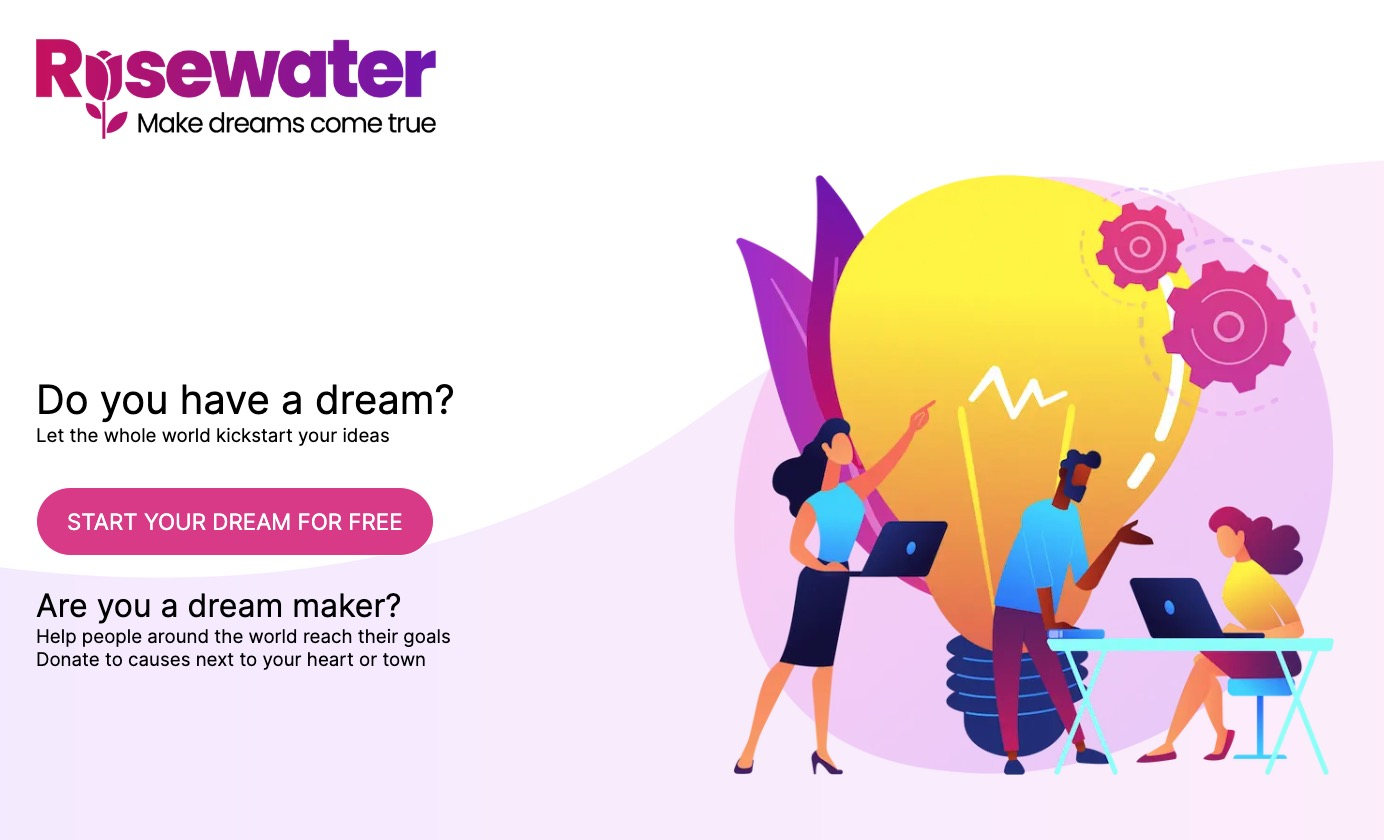
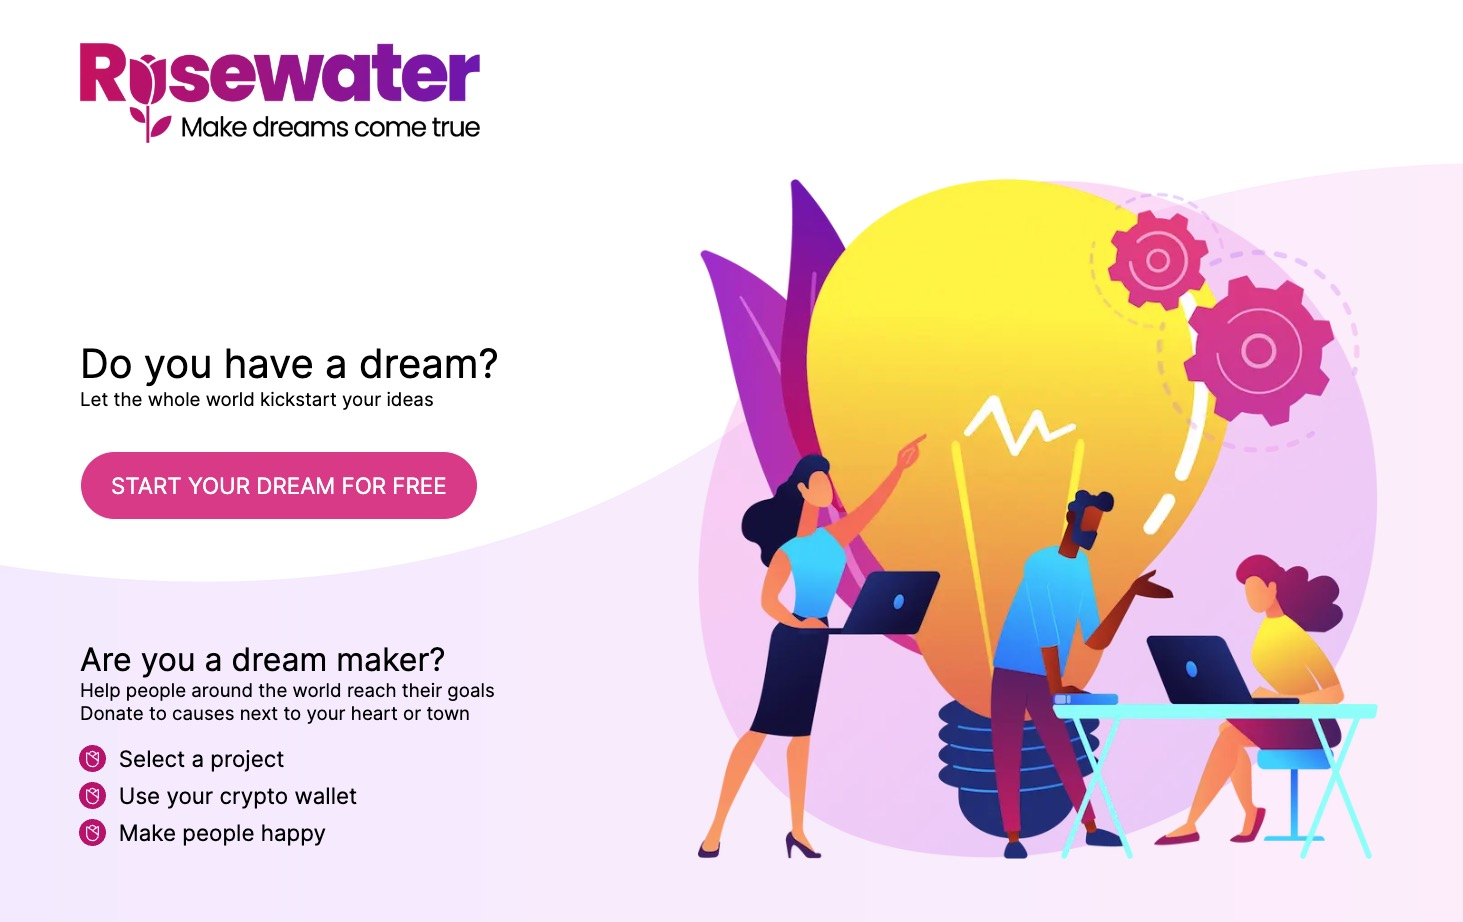
main page

Changed region(s): [[0.466, 0.1857, 0.9632, 0.9286], [0.0311, 0.3714, 0.3418, 0.9286], [0.0, 0.031, 0.3418, 0.1548]]

diff --git a/app/page.module.css b/app/page.module.css
@@ -1,4 +1,4 @@
-/* PALETTE 2B3582 861BB0 BE1677 DC4492 */
+/* PALETTE blue:2B3582 violet:861BB0 pink:BE1677 pink:DC4492 */
 
 .wrap {
   width: 1330px;
@@ -36,7 +36,7 @@
 .hero { display: flex; flex-direction: row; justify-content: space-between; width: 100%; height: 800px; background: url(/media/backg.png) top center no-repeat; }
 .heroLeft  { }
 .heroRight { }
-.hero h1 { padding-top: 200px; font-size: 2.5em; }
+.hero h1 { padding-top: 160px; font-size: 2.5em; }
 .hero h2 { padding-top: 20px; font-size: 2em; }
 .pics { display: flex; flex-direction: row; justify-content: space-between; width: 630px; }
 .pics img { border-radius: 20px; width: 200px; }
@@ -59,7 +59,7 @@
 
 .start {
   display: inline-block;
-  margin: 40px 0 10px;
+  margin: 40px 0 100px;
   padding: 20px 30px;
   background-color: #DC4492;
   color: #FFF !important;
@@ -126,3 +126,33 @@
 .donors td:nth-child(3) {
   text-align: right;
 }
+
+.bullet {
+  margin: 20px 0 0 -6px;
+  list-style-type: none;
+  font-size: 1.4em;
+}
+
+.bullet li {
+  margin-top: 10px;
+  padding-left: 2em;
+  background: url(/media/bullet.svg) no-repeat top left 5px;
+}
+
+/*
+.bullet {
+  margin-top: 50px;
+  list-style-image: url(/media/bullet.svg);
+  font-size: 1.2em;
+  line-height: 1.8em;
+  vertical-align: middle;
+}
+
+.bullet li {
+  line-height: 1.8em;
+}
+
+.bullet li::marker {
+  font-size: 4em;
+}
+*/

diff --git a/components/donations.tsx b/components/donations.tsx
@@ -19,12 +19,12 @@ export default function Donations(props:Dictionary) {
         {list.map((item:Dictionary)=>{
           total += Number(item.usdval)
           return (
-            <tr key={item.id}><td>{item.created.substr(0,10)}</td><td>{item.donor.substr(0,12)+'...'}</td><td>{item.usdval}</td></tr>
+            <tr key={item.id}><td>{item.created.substr(0,10)}</td><td>{item.donor.substr(0,12)+'...'}</td><td>{money(item.usdval,2)}</td></tr>
           )
         })}
         </tbody>
         <tfoot>
-          <tr><th>{list.length} Donation{list.length==1?'':'s'}</th><th>&nbsp;</th><th>{total}</th></tr>
+          <tr><th>{list.length} Donation{list.length==1?'':'s'}</th><th>&nbsp;</th><th>{money(total,2)}</th></tr>
         </tfoot>
       </table>
     </>

diff --git a/components/button-fund.tsx b/components/button-fund.tsx
@@ -1,5 +1,5 @@
 'use client'
- 
+import { useRouter } from 'next/navigation' 
 import { ethers } from 'ethers'
 import { useState } from 'react'
 import * as api from '@/utils/api'
@@ -9,6 +9,7 @@ import styles from '@/app/page.module.css'
 declare let window: any;
 
 export default function ButtonFund(props:any) {
+  const router = useRouter()
   const cause = props?.cause || ''
   const [message, setMessage] = useState('FUND A DREAM')
   
@@ -69,6 +70,7 @@ export default function ButtonFund(props:any) {
       // Add funds to dream
       const funded = await db.addFunds(dream.id, usd)
       console.log('Funded', funded)
+      router.refresh()
     } catch(ex) {
       console.error(ex)
       setMessage('ERROR FUNDING')

diff --git a/app/page.tsx b/app/page.tsx
@@ -31,9 +31,14 @@ export default async function Home() {
             <h2>Are you a dream maker?</h2>
             <h3>Help people around the world reach their goals</h3>
             <h3>Donate to causes next to your heart or town</h3>
+            <ul className={styles.bullet}>
+              <li>Select a project</li>
+              <li>Use your crypto wallet</li>
+              <li>Make people happy</li>
+            </ul>
           </div>
           <div className={styles.heroRight}>
-            <Image src="/media/hero.png" alt="hero" width={600} height={600} />
+            <Image src="/media/hero.png" alt="hero" width={680} height={680} />
           </div>
         </div>
       </div>

diff --git a/app/globals.css b/app/globals.css
@@ -136,6 +136,7 @@ a { color: #333; text-decoration: none; }
 a:visited { color: #333; }
 a:hover {  }
 button { padding: 10px; background-color: transparent; color: #24c; border: 1px solid #24c; border-radius: 5px; cursor: pointer; }
+button:nth-child(2) { margin: 0 2px; }
 form { display: block; width: 720px; margin: 1rem auto; padding: 2rem; border: 1px solid #ccc; border-radius: 20px;  }
 form label { display: block; margin-top: 1rem; color: #888; font-size: normal; }
 form label.info { display: block; margin-top: 0; color: #888; font-size: small; }

diff --git a/components/footer.tsx b/components/footer.tsx
@@ -13,7 +13,7 @@ export default function Footer() {
       </div>
       <div className={styles.footInfo}>
         <p>Rosewater is developed on XRPL-EVM Sidechain</p>
-        <p>You will need Metamask or any EVM compatible wallet and have some funds in it to interact with the app</p>
+        <p>You will need Metamask or any EVM compatible wallet and have some funds to interact with the app</p>
         <p>Download Metamask at <Link href="https://metamask.io">https://metamask.io</Link></p>
       </div>
       <div className={styles.footHelp}>

diff --git a/components/dream-card.tsx b/components/dream-card.tsx
@@ -22,7 +22,7 @@ export default function DreamCard(info:Dictionary) {
       <a href={url}><Image src={image} alt="image" width={250} height={220} /></a>
       <h1>{dream?.name}</h1>
       <p>{dream?.descrip}</p>
-      <div className={styles.goal}>Dream goal {money(dream?.goal)}</div>
+      <div className={styles.goal}>Dream goal USD {money(dream?.goal)}</div>
       <progress value={percent} max="100" />
       <div className={styles.fund}>{funded}% funded since {since}</div>
       <ButtonFund cause={dream?.contract} />
